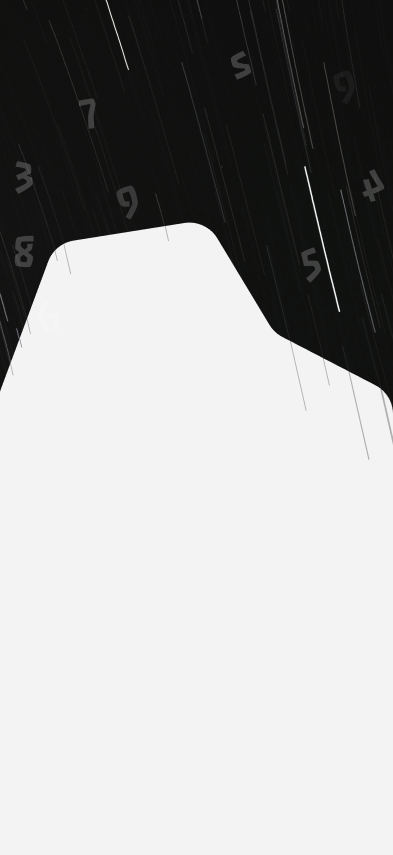
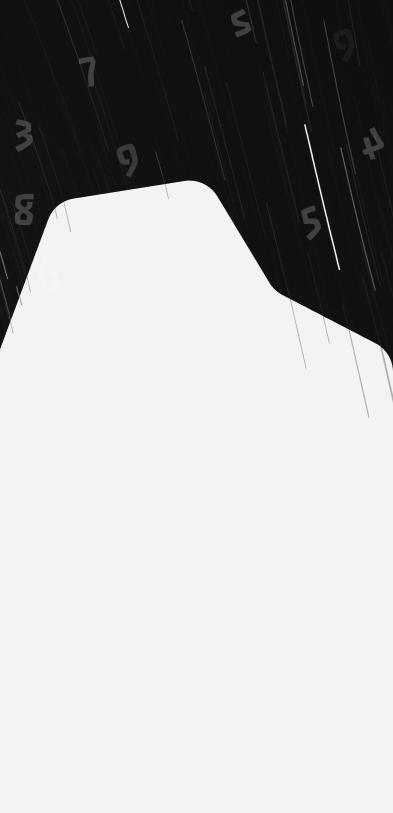
not finished

diff --git a/mystery-digits-techfest/static/css/login.css b/mystery-digits-techfest/static/css/login.css
@@ -14,15 +14,16 @@ html,body{
         height: fit-content;
     }
     .logo{
-        width: 55px;
+        width: 45px;
         height: fit-content;
         padding: 20px;
     }
     h2{
         float: right;
         font-family: 'Roboto Mono', monospace;
-        padding: 20px;
-        font-size: 20px;
+        padding: 10px;
+        margin-right: 10px;
+        font-size: 18px;
     }
     .rules{
         width: 86%;
@@ -37,17 +38,20 @@ html,body{
         margin-top: 10px;
         margin-left: 0px;
         margin-bottom: 10px;
-        font-size: 45px;
+        font-size: 35px;
     }
     p{
         text-align:left ;
         color: rgb(53, 53, 53);
         font-family: 'Roboto Mono', monospace;
-        font-size: 20px;
+        font-size: 15px;
     }
     .accept{
         width: 86%;
         margin:auto 7%;
+        position: fixed;
+        bottom: 0;
+        background-color: whitesmoke;
     }
     span{
         font-size: 15px;
@@ -81,7 +85,7 @@ html,body{
     /**login page start here**/
     .login_container{
         width: 100vw;
-        height: 100vh;
+        height: 100%;
         background-image: url("../images/BG\ Login.png");
         background-size: cover;
         background-repeat: no-repeat;
@@ -92,30 +96,36 @@ html,body{
         color: whitesmoke;
         font-family: 'Roboto Mono', monospace;
         text-align: center;
-        font-size: 30px;
+        font-size: 25px;
         font-weight: 500;
+        margin: 10px 0px;
     }
     .login{
         width: 84%;
         margin: auto 8%;
         text-align: center;
-        margin-top: 150px;
+        margin-top: 100px;
+        height: 100%;
     }
     h5{
-        font-size: 40px;
+        font-size: 30px;
         font-family: 'Roboto Mono', monospace;
         margin-bottom: 20px;
+        margin-top: 0px;
         color: rgb(75, 75,75);
+    }
+    #continue-with-google{
+        visibility: hidden;
     }
     .name,.number,.next{
         width: 100%;
         height: 50px;
-        margin: 15px 0px;
+        margin: 20px 0px;
         border: none;
         outline: none;
         border-bottom: 1px solid gray;
         background-color: transparent;
-        font-size: 20px;
+        font-size: 15px;
         font-family: 'Roboto Mono', monospace;
         transition: 0.5s;
     }
@@ -177,7 +187,7 @@ html,body{
         display: block;
         text-align: center;
         width: 100%;
-        margin-top: 7vh;
+        margin-top: calc(100vh - 650px);
         font-weight: bolder;
         color: rgb(94, 94, 94);
         font-size: medium;

diff --git a/mystery-digits-techfest/static/css/index.css b/mystery-digits-techfest/static/css/index.css
@@ -2,7 +2,7 @@ html,body{
     margin: 0px;
 }
     .container{
-        height: 100vh;
+        height: 100%;
         width: 100vw;
         background-image: url("../images/BG.png");
         background-size: cover;
@@ -13,7 +13,7 @@ html,body{
         height: fit-content;
     }
     .logo{
-        width: 55px;
+        width: 45px;
         height: fit-content;
         padding: 20px;
     }
@@ -22,16 +22,17 @@ html,body{
         text-shadow:  2px 2px 10px white;
         font-family: 'Roboto Mono', monospace;
         text-align: center;
-        font-size: 30px;
+        font-size: 25px;
         margin-bottom: 0px;
+        margin-top: 0px;
     }
     h2{
         color: white;
         font-family: 'Roboto Mono', monospace;
-        font-size: 60px;
+        font-size: 45px;
         text-align: center;
-        margin-top: 20px;
-        margin-bottom: 20px;
+        margin-top: 10px;
+        margin-bottom: 10px;
         font-weight: 500;
 
     }
@@ -39,8 +40,8 @@ html,body{
         text-align:center ;
         color: grey;
         font-family: 'Roboto Mono', monospace;
-        font-size: 18px;
-        margin: 30px auto;
+        font-size: 15px;
+        margin: 15px auto;
     }
     .registration_info{
         width: 90%;
@@ -51,9 +52,9 @@ html,body{
         flex-direction: column;
     }
     .fee,.price{
-        font-size: 22px;
+        font-size: 18px;
         color: rgba(245, 245, 245, 0.836);
-        padding: 15px 10px;
+        padding: 10px 10px;
         font-family: 'Roboto Mono', monospace;
         font-weight: 500;
     }
@@ -67,7 +68,7 @@ html,body{
         color: black;
         font-family: 'Roboto Mono', monospace;
         font-weight: bold;
-        font-size: 25px;
+        font-size: 18px;
         padding: 10px 0px;
         border-radius: 10px;
     }

diff --git a/mystery-digits-techfest/templates/login.html b/mystery-digits-techfest/templates/login.html
@@ -18,13 +18,13 @@
          <form><input type="text" class="name" placeholder="Name" id="name" name="name" required/>
             <input type="number" class="number" placeholder="Registered Phone Number" id="phone" name="phone" required/>
             <input type="button" class="next" value="Next" onclick="onNextButtonClick()"/>
+            <span class="not_registered">Not Registered ? <a href=""><b>Register</b></a></span>
             </form></div>
-            <span class="bar"> Click next then sign-in with google </span>
             <div id="continue-with-google">
-            <button class="google" onclick="window.location='/login_google'" id="google-btn"><span class="icon"><i class="fa-brands fa-google"></i></span>Google</button>
-                </div>
+                <p>Sign-In with google to continue</p>
+                <button class="google" onclick="window.location='/login_google'" id="google-btn"><span class="icon"><i class="fa-brands fa-google"></i></span>Google</button>
+            </div>
         </div>
-        <span class="not_registered">Not Registered ? <a href=""><b>Register</b></a></span>
     </div>
 
     <div class="rules_container" id="rules">
